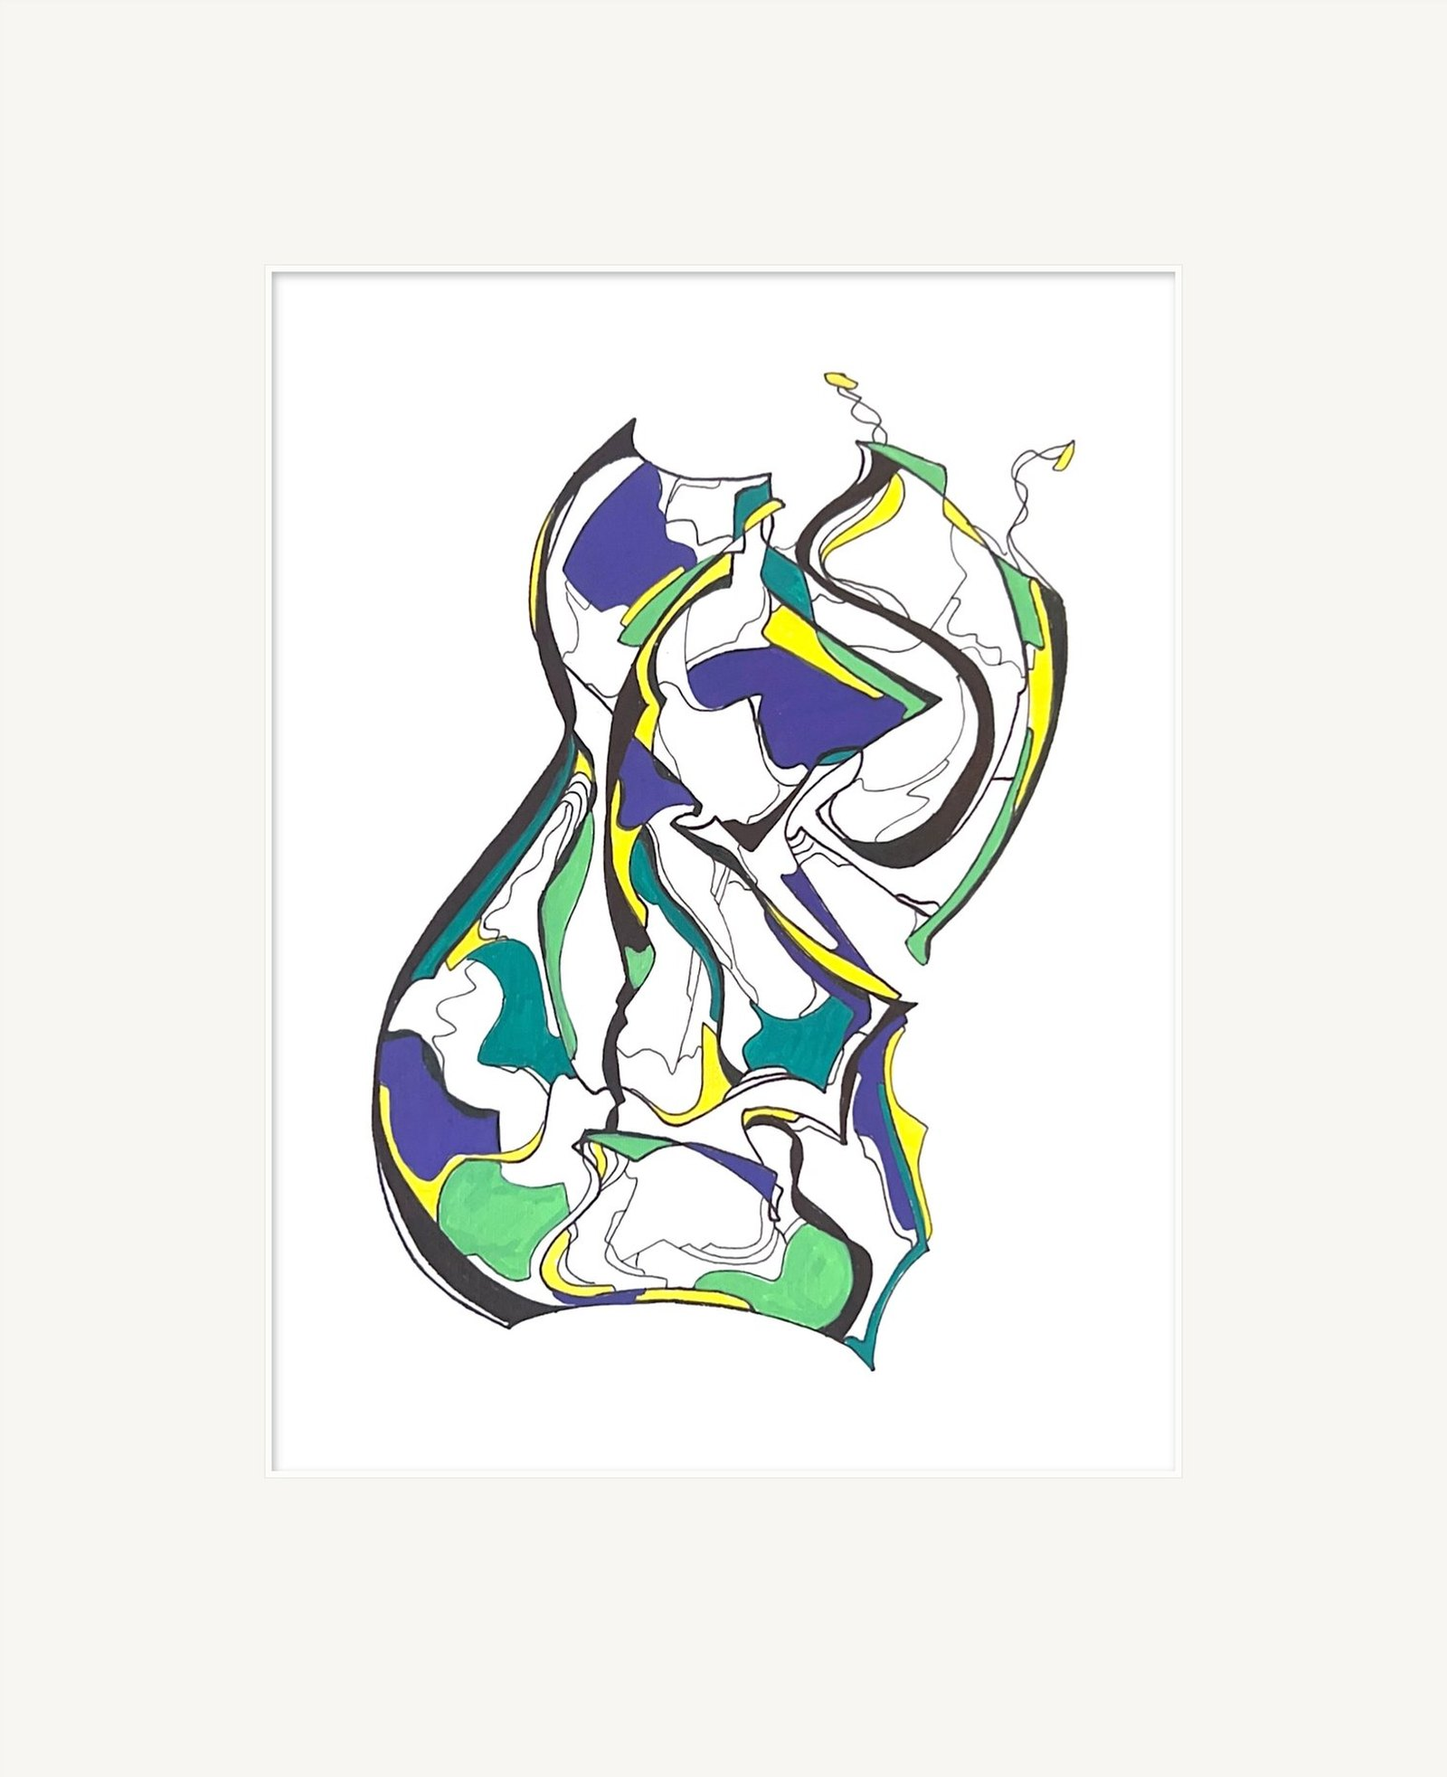
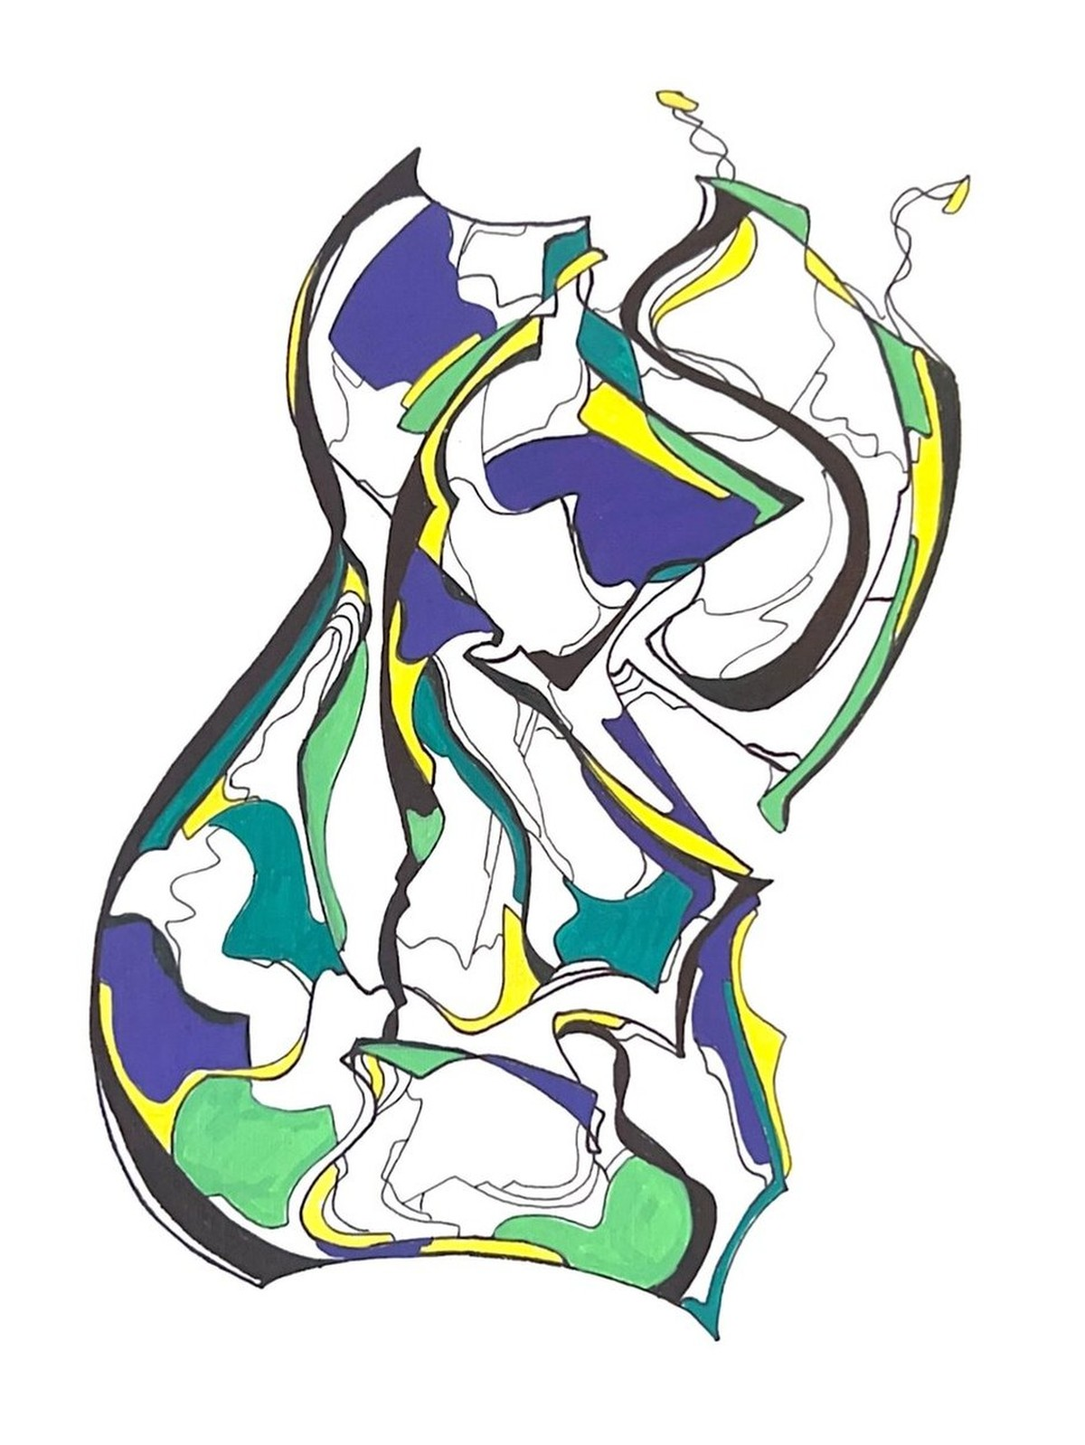
Drawings/Projects tops: drawing on clean white paper (no dark edges), Projects video shown whole, less empty space on top; softer title roll-in
Claude-Session: https://claude.ai/code/session_01H5rr4vyQfECm49aUQdYU3c

Changed region(s): [[0.0617, 0.092, 0.8942, 0.9199], [0.5858, 0.0613, 0.6475, 0.092]]

diff --git a/fr/drawings/index.html b/fr/drawings/index.html
@@ -19,7 +19,7 @@
     <link rel="preconnect" href="https://fonts.gstatic.com" crossorigin>
     <link href="https://fonts.googleapis.com/css2?family=Cormorant+Garamond:ital,wght@0,300..700;1,300..700&family=Italiana&family=Manrope:wght@300..700&display=swap" rel="stylesheet">
     <link rel="icon" href="../../img/2024-05-cropped-Screenshot-2024-05-25-at-06.54.34-32x32.jpg" sizes="32x32">
-    <link rel="stylesheet" href="../../styles.css?v=20261122h">
+    <link rel="stylesheet" href="../../styles.css?v=20261122i">
     <style>
         .header { transform: none !important; animation: none !important; }
         .reveal, .video-card, .work-card, .philosophy-card, .exhibition-block, .tech-block {
@@ -79,7 +79,7 @@
                         <h1 class="section__title">Œuvres sur papier</h1>
                         <p class="section__desc">Des contours noirs fluides et des fragments de couleur qui se plient en formes cristallines — des dessins qui partagent le langage des sculptures en vitrail.</p>
                     </header>
-                    <figure class="page-top__media"><picture><source type="image/webp" srcset="../../img/drawings/drawing-01-crop-800.webp 800w, ../../img/drawings/drawing-01-crop-1600.webp 1600w" sizes="(max-width: 768px) 92vw, 48vw"><img src="../../img/drawings/drawing-01-crop-1600.jpg" alt="Drawing on paper by Arthemii Ionaere" fetchpriority="high" decoding="async" style="object-position:50% 30%"></picture></figure>
+                    <figure class="page-top__media page-top__media--paper"><picture><source type="image/webp" srcset="../../img/drawings/drawing-01-crop-800.webp 800w, ../../img/drawings/drawing-01-crop-1600.webp 1600w" sizes="(max-width: 768px) 92vw, 48vw"><img src="../../img/drawings/drawing-01-crop-1600.jpg" alt="Drawing on paper by Arthemii Ionaere" fetchpriority="high" decoding="async" style="object-position:50% 30%"></picture></figure>
                 </div>
                 <div class="drawings__rows">
                     <div class="drawings__row">

diff --git a/de/drawings/index.html b/de/drawings/index.html
@@ -19,7 +19,7 @@
     <link rel="preconnect" href="https://fonts.gstatic.com" crossorigin>
     <link href="https://fonts.googleapis.com/css2?family=Cormorant+Garamond:ital,wght@0,300..700;1,300..700&family=Italiana&family=Manrope:wght@300..700&display=swap" rel="stylesheet">
     <link rel="icon" href="../../img/2024-05-cropped-Screenshot-2024-05-25-at-06.54.34-32x32.jpg" sizes="32x32">
-    <link rel="stylesheet" href="../../styles.css?v=20261122h">
+    <link rel="stylesheet" href="../../styles.css?v=20261122i">
     <style>
         .header { transform: none !important; animation: none !important; }
         .reveal, .video-card, .work-card, .philosophy-card, .exhibition-block, .tech-block {
@@ -79,7 +79,7 @@
                         <h1 class="section__title">Arbeiten auf Papier</h1>
                         <p class="section__desc">Fließende schwarze Konturen und Farbfragmente, die sich zu kristallartigen Formen falten — Zeichnungen, die die Sprache der Glasmalerei-Skulpturen teilen.</p>
                     </header>
-                    <figure class="page-top__media"><picture><source type="image/webp" srcset="../../img/drawings/drawing-01-crop-800.webp 800w, ../../img/drawings/drawing-01-crop-1600.webp 1600w" sizes="(max-width: 768px) 92vw, 48vw"><img src="../../img/drawings/drawing-01-crop-1600.jpg" alt="Drawing on paper by Arthemii Ionaere" fetchpriority="high" decoding="async" style="object-position:50% 30%"></picture></figure>
+                    <figure class="page-top__media page-top__media--paper"><picture><source type="image/webp" srcset="../../img/drawings/drawing-01-crop-800.webp 800w, ../../img/drawings/drawing-01-crop-1600.webp 1600w" sizes="(max-width: 768px) 92vw, 48vw"><img src="../../img/drawings/drawing-01-crop-1600.jpg" alt="Drawing on paper by Arthemii Ionaere" fetchpriority="high" decoding="async" style="object-position:50% 30%"></picture></figure>
                 </div>
                 <div class="drawings__rows">
                     <div class="drawings__row">

diff --git a/es/drawings/index.html b/es/drawings/index.html
@@ -19,7 +19,7 @@
     <link rel="preconnect" href="https://fonts.gstatic.com" crossorigin>
     <link href="https://fonts.googleapis.com/css2?family=Cormorant+Garamond:ital,wght@0,300..700;1,300..700&family=Italiana&family=Manrope:wght@300..700&display=swap" rel="stylesheet">
     <link rel="icon" href="../../img/2024-05-cropped-Screenshot-2024-05-25-at-06.54.34-32x32.jpg" sizes="32x32">
-    <link rel="stylesheet" href="../../styles.css?v=20261122h">
+    <link rel="stylesheet" href="../../styles.css?v=20261122i">
     <style>
         .header { transform: none !important; animation: none !important; }
         .reveal, .video-card, .work-card, .philosophy-card, .exhibition-block, .tech-block {
@@ -79,7 +79,7 @@
                         <h1 class="section__title">Obras sobre papel</h1>
                         <p class="section__desc">Contornos negros fluidos y fragmentos de color que se pliegan en formas cristalinas: dibujos que comparten el lenguaje de las esculturas de vidrieras.</p>
                     </header>
-                    <figure class="page-top__media"><picture><source type="image/webp" srcset="../../img/drawings/drawing-01-crop-800.webp 800w, ../../img/drawings/drawing-01-crop-1600.webp 1600w" sizes="(max-width: 768px) 92vw, 48vw"><img src="../../img/drawings/drawing-01-crop-1600.jpg" alt="Drawing on paper by Arthemii Ionaere" fetchpriority="high" decoding="async" style="object-position:50% 30%"></picture></figure>
+                    <figure class="page-top__media page-top__media--paper"><picture><source type="image/webp" srcset="../../img/drawings/drawing-01-crop-800.webp 800w, ../../img/drawings/drawing-01-crop-1600.webp 1600w" sizes="(max-width: 768px) 92vw, 48vw"><img src="../../img/drawings/drawing-01-crop-1600.jpg" alt="Drawing on paper by Arthemii Ionaere" fetchpriority="high" decoding="async" style="object-position:50% 30%"></picture></figure>
                 </div>
                 <div class="drawings__rows">
                     <div class="drawings__row">

diff --git a/it/drawings/index.html b/it/drawings/index.html
@@ -19,7 +19,7 @@
     <link rel="preconnect" href="https://fonts.gstatic.com" crossorigin>
     <link href="https://fonts.googleapis.com/css2?family=Cormorant+Garamond:ital,wght@0,300..700;1,300..700&family=Italiana&family=Manrope:wght@300..700&display=swap" rel="stylesheet">
     <link rel="icon" href="../../img/2024-05-cropped-Screenshot-2024-05-25-at-06.54.34-32x32.jpg" sizes="32x32">
-    <link rel="stylesheet" href="../../styles.css?v=20261122h">
+    <link rel="stylesheet" href="../../styles.css?v=20261122i">
     <style>
         .header { transform: none !important; animation: none !important; }
         .reveal, .video-card, .work-card, .philosophy-card, .exhibition-block, .tech-block {
@@ -79,7 +79,7 @@
                         <h1 class="section__title">Opere su carta</h1>
                         <p class="section__desc">Contorni neri fluidi e frammenti di colore che si piegano in forme simili a cristalli — disegni che condividono il linguaggio delle sculture in vetro.</p>
                     </header>
-                    <figure class="page-top__media"><picture><source type="image/webp" srcset="../../img/drawings/drawing-01-crop-800.webp 800w, ../../img/drawings/drawing-01-crop-1600.webp 1600w" sizes="(max-width: 768px) 92vw, 48vw"><img src="../../img/drawings/drawing-01-crop-1600.jpg" alt="Drawing on paper by Arthemii Ionaere" fetchpriority="high" decoding="async" style="object-position:50% 30%"></picture></figure>
+                    <figure class="page-top__media page-top__media--paper"><picture><source type="image/webp" srcset="../../img/drawings/drawing-01-crop-800.webp 800w, ../../img/drawings/drawing-01-crop-1600.webp 1600w" sizes="(max-width: 768px) 92vw, 48vw"><img src="../../img/drawings/drawing-01-crop-1600.jpg" alt="Drawing on paper by Arthemii Ionaere" fetchpriority="high" decoding="async" style="object-position:50% 30%"></picture></figure>
                 </div>
                 <div class="drawings__rows">
                     <div class="drawings__row">

diff --git a/drawings/index.html b/drawings/index.html
@@ -20,7 +20,7 @@
     <link rel="preconnect" href="https://fonts.gstatic.com" crossorigin>
     <link href="https://fonts.googleapis.com/css2?family=Cormorant+Garamond:ital,wght@0,300..700;1,300..700&family=Italiana&family=Manrope:wght@300..700&display=swap" rel="stylesheet">
     <link rel="icon" href="../img/2024-05-cropped-Screenshot-2024-05-25-at-06.54.34-32x32.jpg" sizes="32x32">
-    <link rel="stylesheet" href="../styles.css?v=20261122h">
+    <link rel="stylesheet" href="../styles.css?v=20261122i">
     <style>
         .header { transform: none !important; animation: none !important; }
         .reveal, .video-card, .work-card, .philosophy-card, .exhibition-block, .tech-block {
@@ -80,7 +80,7 @@
                         <h1 class="section__title">Works on paper</h1>
                         <p class="section__desc">Flowing black contours and fragments of colour that fold into crystal-like forms — drawings that share the language of the stained-glass sculptures.</p>
                     </header>
-                    <figure class="page-top__media"><picture><source type="image/webp" srcset="../img/drawings/drawing-01-crop-800.webp 800w, ../img/drawings/drawing-01-crop-1600.webp 1600w" sizes="(max-width: 768px) 92vw, 48vw"><img src="../img/drawings/drawing-01-crop-1600.jpg" alt="Drawing on paper by Arthemii Ionaere" fetchpriority="high" decoding="async" style="object-position:50% 30%"></picture></figure>
+                    <figure class="page-top__media page-top__media--paper"><picture><source type="image/webp" srcset="../img/drawings/drawing-01-crop-800.webp 800w, ../img/drawings/drawing-01-crop-1600.webp 1600w" sizes="(max-width: 768px) 92vw, 48vw"><img src="../img/drawings/drawing-01-crop-1600.jpg" alt="Drawing on paper by Arthemii Ionaere" fetchpriority="high" decoding="async" style="object-position:50% 30%"></picture></figure>
                 </div>
                 <div class="drawings__rows">
                     <div class="drawings__row">

diff --git a/de/projects/index.html b/de/projects/index.html
@@ -27,7 +27,7 @@
     <link rel="preconnect" href="https://fonts.gstatic.com" crossorigin>
     <link href="https://fonts.googleapis.com/css2?family=Cormorant+Garamond:ital,wght@0,300..700;1,300..700&family=Italiana&family=Manrope:wght@300..700&display=swap" rel="stylesheet">
     <link rel="icon" href="../../img/2024-05-cropped-Screenshot-2024-05-25-at-06.54.34-32x32.jpg" sizes="32x32">
-    <link rel="stylesheet" href="../../styles.css?v=20261122h">
+    <link rel="stylesheet" href="../../styles.css?v=20261122i">
     <style>
         .header { transform: none !important; animation: none !important; }
         .reveal, .video-card, .work-card, .philosophy-card, .exhibition-block, .tech-block {
@@ -116,7 +116,7 @@
                         <h1 class="section__title">Handwerk &amp; Techniken</h1>
                         <p class="section__desc">Fünf unterschiedliche Ansätze für die Arbeit mit Farbglas — von der traditionellen Tiffany-Technik bis zu experimentellen Schattenprisma-Installationen.</p>
                     </header>
-                    <figure class="page-top__media"><video src="../../video-files/glass-meditation.m4v" poster="../../video-posters/glass-meditation.jpg" autoplay muted loop playsinline webkit-playsinline disablepictureinpicture preload="auto" aria-label="Glass light objects by Arthemii Ionaere"></video></figure>
+                    <figure class="page-top__media page-top__media--whole"><video src="../../video-files/glass-meditation.m4v" poster="../../video-posters/glass-meditation.jpg" autoplay muted loop playsinline webkit-playsinline disablepictureinpicture preload="auto" aria-label="Glass light objects by Arthemii Ionaere"></video></figure>
                 </div>
 
                 <!-- Tech 1: Metal Frame -->

diff --git a/fr/projects/index.html b/fr/projects/index.html
@@ -27,7 +27,7 @@
     <link rel="preconnect" href="https://fonts.gstatic.com" crossorigin>
     <link href="https://fonts.googleapis.com/css2?family=Cormorant+Garamond:ital,wght@0,300..700;1,300..700&family=Italiana&family=Manrope:wght@300..700&display=swap" rel="stylesheet">
     <link rel="icon" href="../../img/2024-05-cropped-Screenshot-2024-05-25-at-06.54.34-32x32.jpg" sizes="32x32">
-    <link rel="stylesheet" href="../../styles.css?v=20261122h">
+    <link rel="stylesheet" href="../../styles.css?v=20261122i">
     <style>
         .header { transform: none !important; animation: none !important; }
         .reveal, .video-card, .work-card, .philosophy-card, .exhibition-block, .tech-block {
@@ -116,7 +116,7 @@
                         <h1 class="section__title">Savoir-faire et techniques</h1>
                         <p class="section__desc">Cinq approches distinctes du travail du verre coloré — de la technique Tiffany traditionnelle aux installations expérimentales de prismes d’ombre.</p>
                     </header>
-                    <figure class="page-top__media"><video src="../../video-files/glass-meditation.m4v" poster="../../video-posters/glass-meditation.jpg" autoplay muted loop playsinline webkit-playsinline disablepictureinpicture preload="auto" aria-label="Glass light objects by Arthemii Ionaere"></video></figure>
+                    <figure class="page-top__media page-top__media--whole"><video src="../../video-files/glass-meditation.m4v" poster="../../video-posters/glass-meditation.jpg" autoplay muted loop playsinline webkit-playsinline disablepictureinpicture preload="auto" aria-label="Glass light objects by Arthemii Ionaere"></video></figure>
                 </div>
 
                 <!-- Tech 1: Metal Frame -->

diff --git a/it/projects/index.html b/it/projects/index.html
@@ -27,7 +27,7 @@
     <link rel="preconnect" href="https://fonts.gstatic.com" crossorigin>
     <link href="https://fonts.googleapis.com/css2?family=Cormorant+Garamond:ital,wght@0,300..700;1,300..700&family=Italiana&family=Manrope:wght@300..700&display=swap" rel="stylesheet">
     <link rel="icon" href="../../img/2024-05-cropped-Screenshot-2024-05-25-at-06.54.34-32x32.jpg" sizes="32x32">
-    <link rel="stylesheet" href="../../styles.css?v=20261122h">
+    <link rel="stylesheet" href="../../styles.css?v=20261122i">
     <style>
         .header { transform: none !important; animation: none !important; }
         .reveal, .video-card, .work-card, .philosophy-card, .exhibition-block, .tech-block {
@@ -116,7 +116,7 @@
                         <h1 class="section__title">Artigianato e tecniche</h1>
                         <p class="section__desc">Cinque approcci distinti alla lavorazione del vetro colorato — dalla tradizionale tecnica Tiffany alle installazioni sperimentali con prismi d’ombra.</p>
                     </header>
-                    <figure class="page-top__media"><video src="../../video-files/glass-meditation.m4v" poster="../../video-posters/glass-meditation.jpg" autoplay muted loop playsinline webkit-playsinline disablepictureinpicture preload="auto" aria-label="Glass light objects by Arthemii Ionaere"></video></figure>
+                    <figure class="page-top__media page-top__media--whole"><video src="../../video-files/glass-meditation.m4v" poster="../../video-posters/glass-meditation.jpg" autoplay muted loop playsinline webkit-playsinline disablepictureinpicture preload="auto" aria-label="Glass light objects by Arthemii Ionaere"></video></figure>
                 </div>
 
                 <!-- Tech 1: Metal Frame -->

diff --git a/es/projects/index.html b/es/projects/index.html
@@ -27,7 +27,7 @@
     <link rel="preconnect" href="https://fonts.gstatic.com" crossorigin>
     <link href="https://fonts.googleapis.com/css2?family=Cormorant+Garamond:ital,wght@0,300..700;1,300..700&family=Italiana&family=Manrope:wght@300..700&display=swap" rel="stylesheet">
     <link rel="icon" href="../../img/2024-05-cropped-Screenshot-2024-05-25-at-06.54.34-32x32.jpg" sizes="32x32">
-    <link rel="stylesheet" href="../../styles.css?v=20261122h">
+    <link rel="stylesheet" href="../../styles.css?v=20261122i">
     <style>
         .header { transform: none !important; animation: none !important; }
         .reveal, .video-card, .work-card, .philosophy-card, .exhibition-block, .tech-block {
@@ -116,7 +116,7 @@
                         <h1 class="section__title">Oficio y técnicas</h1>
                         <p class="section__desc">Cinco enfoques distintos para trabajar con vidrio de color: desde la técnica tradicional Tiffany hasta instalaciones experimentales de prismas de sombras.</p>
                     </header>
-                    <figure class="page-top__media"><video src="../../video-files/glass-meditation.m4v" poster="../../video-posters/glass-meditation.jpg" autoplay muted loop playsinline webkit-playsinline disablepictureinpicture preload="auto" aria-label="Glass light objects by Arthemii Ionaere"></video></figure>
+                    <figure class="page-top__media page-top__media--whole"><video src="../../video-files/glass-meditation.m4v" poster="../../video-posters/glass-meditation.jpg" autoplay muted loop playsinline webkit-playsinline disablepictureinpicture preload="auto" aria-label="Glass light objects by Arthemii Ionaere"></video></figure>
                 </div>
 
                 <!-- Tech 1: Metal Frame -->

diff --git a/projects/index.html b/projects/index.html
@@ -27,7 +27,7 @@
     <link rel="preconnect" href="https://fonts.gstatic.com" crossorigin>
     <link href="https://fonts.googleapis.com/css2?family=Cormorant+Garamond:ital,wght@0,300..700;1,300..700&family=Italiana&family=Manrope:wght@300..700&display=swap" rel="stylesheet">
     <link rel="icon" href="../img/2024-05-cropped-Screenshot-2024-05-25-at-06.54.34-32x32.jpg" sizes="32x32">
-    <link rel="stylesheet" href="../styles.css?v=20261122h">
+    <link rel="stylesheet" href="../styles.css?v=20261122i">
     <style>
         .header { transform: none !important; animation: none !important; }
         .reveal, .video-card, .work-card, .philosophy-card, .exhibition-block, .tech-block {
@@ -116,7 +116,7 @@
                         <h1 class="section__title">Craftsmanship & Techniques</h1>
                         <p class="section__desc">Five distinct approaches to working with colored glass — from traditional Tiffany technique to experimental shadow prism installations.</p>
                     </header>
-                    <figure class="page-top__media"><video src="../video-files/glass-meditation.m4v" poster="../video-posters/glass-meditation.jpg" autoplay muted loop playsinline webkit-playsinline disablepictureinpicture preload="auto" aria-label="Glass light objects by Arthemii Ionaere"></video></figure>
+                    <figure class="page-top__media page-top__media--whole"><video src="../video-files/glass-meditation.m4v" poster="../video-posters/glass-meditation.jpg" autoplay muted loop playsinline webkit-playsinline disablepictureinpicture preload="auto" aria-label="Glass light objects by Arthemii Ionaere"></video></figure>
                 </div>
 
                 <!-- Tech 1: Metal Frame -->

diff --git a/styles.css b/styles.css
@@ -1811,6 +1811,14 @@
         }
         .page-top__media img,
         .page-top__media video { display: block; width: 100%; height: 100%; object-fit: cover; }
+        /* a video shown whole, at its own proportions (no cropping) */
+        .page-top__media--whole { height: auto; background: none; }
+        .page-top__media--whole video, .page-top__media--whole img { height: auto; object-fit: contain; }
+        /* a drawing on white paper, shown whole inside the frame */
+        .page-top__media--paper { background: #fff; }
+        .page-top__media--paper img { object-fit: contain; object-position: 50% 50% !important; padding: 4% 6%; }
+        /* less empty space above the page name */
+        .section:has(> .container > .page-top) { padding-top: var(--spacing-md); }
         @media (max-width: 768px) {
             .page-top { grid-template-columns: minmax(0, 1fr); grid-template-rows: auto auto; }
             .page-top__media { grid-column: 1; grid-row: 1; height: auto; aspect-ratio: 4 / 5; }

diff --git a/de/contact/index.html b/de/contact/index.html
@@ -27,7 +27,7 @@
     <link rel="preconnect" href="https://fonts.gstatic.com" crossorigin>
     <link href="https://fonts.googleapis.com/css2?family=Cormorant+Garamond:ital,wght@0,300..700;1,300..700&family=Italiana&family=Manrope:wght@300..700&display=swap" rel="stylesheet">
     <link rel="icon" href="../../img/2024-05-cropped-Screenshot-2024-05-25-at-06.54.34-32x32.jpg" sizes="32x32">
-    <link rel="stylesheet" href="../../styles.css?v=20261122h">
+    <link rel="stylesheet" href="../../styles.css?v=20261122i">
     <style>
         .header { transform: none !important; animation: none !important; }
         .reveal, .video-card, .work-card, .philosophy-card, .exhibition-block, .tech-block {
